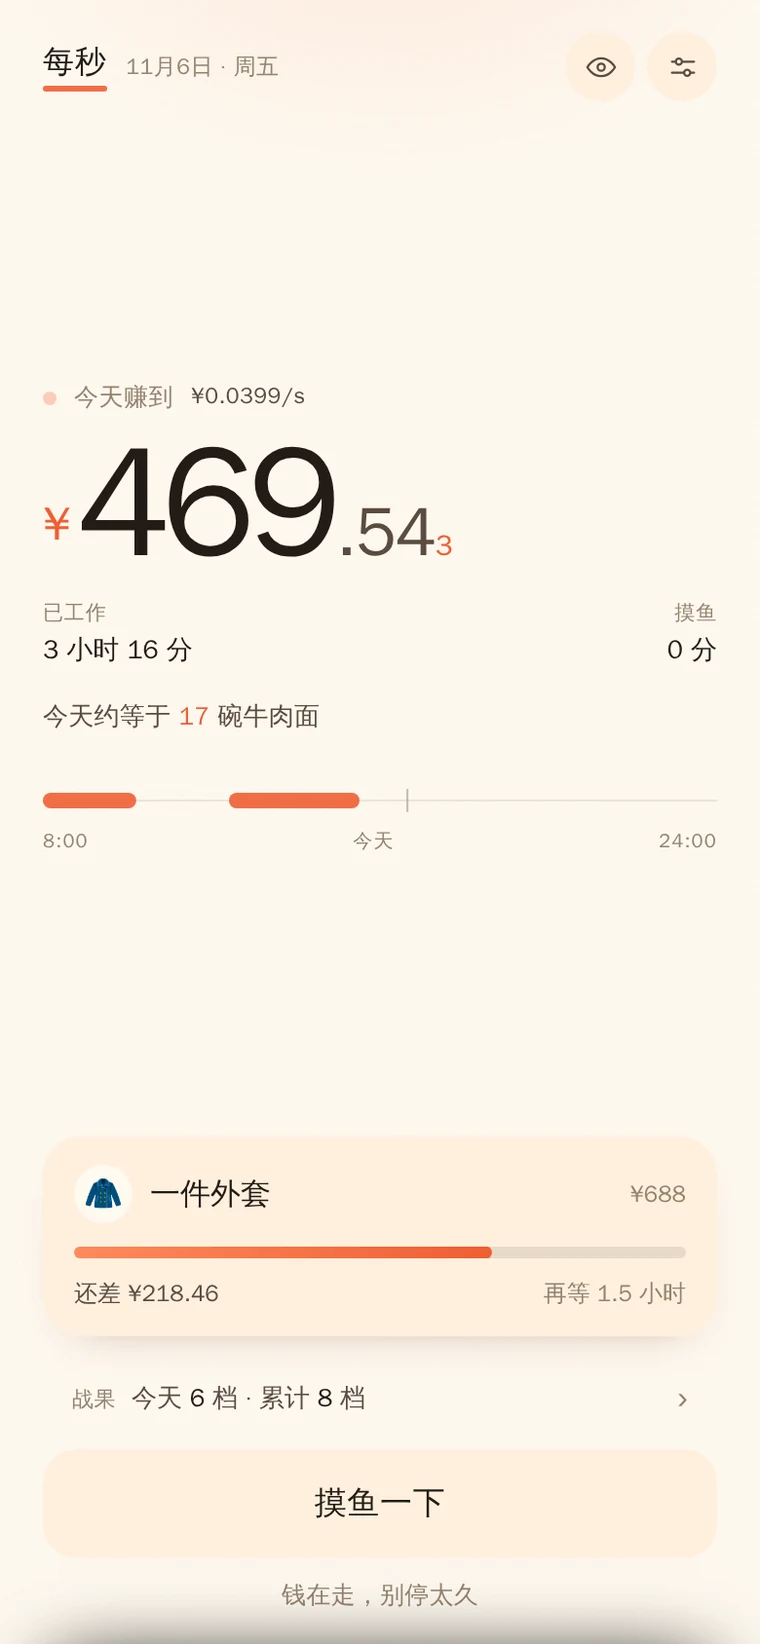
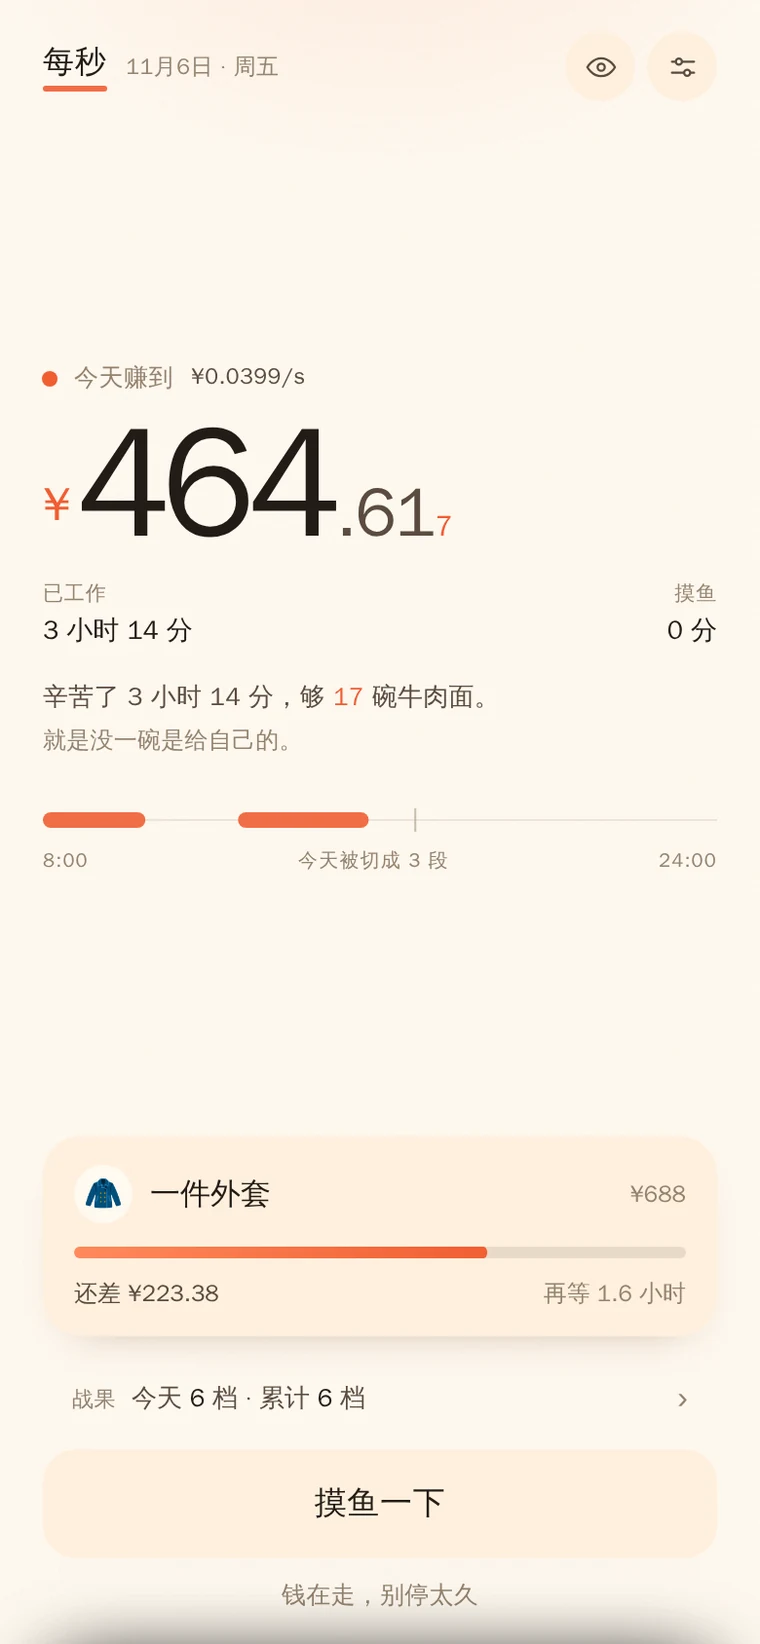
copy(v1.3.1): 换算句改成分层语气（主句 + 小字吐槽），时间带改「被切成 N 段」

diff --git a/index.html b/index.html
@@ -130,6 +130,7 @@
   .readout .right{text-align:right}
   .aside{margin-top:14px;font-size:13px;color:var(--ink-2);line-height:1.55;min-height:20px;letter-spacing:.01em}
   .aside b{font-weight:700;color:var(--accent)}
+  .aside .quip{display:block;margin-top:3px;font-size:12px;color:var(--ink-3)}
 
   .timeline{margin-top:26px;color:var(--ink-3)}
   .timeline svg{display:block;width:100%;height:auto}
@@ -455,10 +456,10 @@
   <div class="field col" style="border-top:1px solid var(--rule-soft);margin-top:18px">
     <label>分享</label>
     <div class="picks share" id="sharePicks">
-      <button class="pick" data-share="line" aria-pressed="false"><strong>一句话</strong><span>只有一句今天够买什么</span></button>
+      <button class="pick" data-share="line" aria-pressed="false"><strong>一句话</strong><span>只有一句话，别的不露</span></button>
       <button class="pick" data-share="report" aria-pressed="true"><strong>战报</strong><span>攒到几档、几件，不露钱</span></button>
-      <button class="pick" data-share="bill" aria-pressed="false"><strong>账单</strong><span>含金额，无工时</span></button>
-      <button class="pick" data-share="rhythm" aria-pressed="false"><strong>节奏卡</strong><span>只有今天的时间块，不含钱</span></button>
+      <button class="pick" data-share="bill" aria-pressed="false"><strong>账单</strong><span>带钱，不带时间</span></button>
+      <button class="pick" data-share="rhythm" aria-pressed="false"><strong>节奏卡</strong><span>只让人看你在忙</span></button>
     </div>
     <p class="note" id="shareNote">默认「战报」：别人能看懂你的进度，但算不出你的工资。</p>
   </div>
@@ -582,6 +583,30 @@
   function dayMs() { return S.hours * 3600 * 1000; }
   function yearMs() { return 12 * S.workdays * dayMs(); }
   function simTotalMs() { return S.sim.years * yearMs(); }
+  function durWords(ms) {
+    var m = Math.floor(ms / 60000);
+    if (m < 1) return '一小会儿';
+    if (m < 60) return m + ' 分钟';
+    var h = Math.floor(m / 60), mm = m % 60;
+    return h + ' 小时' + (mm ? ' ' + mm + ' 分' : '');
+  }
+
+  function asideSentence(e, now, isSim) {
+    var T = tpl(), unit = T.items[T.asideUnit].v;
+    var c = e / unit, n = c >= 10 ? Math.round(c) : Math.floor(c);
+    var dw = durWords(liveWorkMs(now));
+    function two(main, quip) { return main + (quip ? '<span class="quip">' + quip + '</span>' : ''); }
+
+    if (isSim) return two('这一轮跑了 ' + dw + '，够 <b>' + n + '</b> ' + T.aside + '。', '梦里什么都有。');
+    if (c < 0.25) return two('辛苦了 ' + dw + '，连一' + T.aside + '都还没够。', '再等等，快了。');
+    if (c < 1) return two('辛苦了 ' + dw + '，还差 <b>¥' + fen(unit - e) + '</b> 才够一' + T.aside + '。', '就差这么一点。');
+
+    var lead = n <= 1 ? '总算' : n <= 3 ? '勉强' : '';
+    var quip = n <= 1 ? '也算没白干。' : n <= 3 ? '加个蛋还得犹豫一下。' : n <= 9 ? '就是都不太舍得吃。' : '就是没一碗是给自己的。';
+    var num = n === 1 ? '一' : '<b>' + n + '</b> ';
+    return two('辛苦了 ' + dw + '，' + lead + '够' + (n === 1 ? '' : ' ') + num + T.aside + '。', quip);
+  }
+
   function liveWorkMs(now) {
     if (S.sim.on) {
       var b = S.sim.elapsedMs;
@@ -686,14 +711,11 @@
     el.btnMain.classList.toggle('ghost', running && !isSim);
 
     if (S.hideMoney) {
-      el.aside.textContent = e > 0 ? '金额藏起来了，进度还在走' : '';
+      el.aside.textContent = e > 0 ? '数字藏起来了，辛苦一点没少。' : '';
     } else if (e > 0) {
-      var unit = tpl().items[tpl().asideUnit].v;
-      var c = e / unit;
-      el.aside.innerHTML = c < 1
-        ? '还差 <b>¥' + fen(unit - e) + '</b> 就够一' + tpl().aside
-        : (isSim ? '这一轮约等于 ' : '今天约等于 ') + '<b>' + (c >= 10 ? Math.round(c) : c.toFixed(1)) + '</b> ' + tpl().aside;
-    } else el.aside.innerHTML = '';
+      el.aside.innerHTML = asideSentence(e, now, isSim);
+    } else if (isSim) el.aside.innerHTML = '';
+    else el.aside.textContent = running ? '刚坐下，钱才刚开始动。' : '今天还没开张，一分钱都还没挣。';
 
     if (!celebrating) { if (isSim) renderSimGoal(now); else renderItemGoal(now, e); }
     renderTimeline(now);
@@ -777,7 +799,8 @@
     });
     var nx = clamp((now - base) / span, 0, 1) * W;
     svg += '<line x1="' + nx.toFixed(1) + '" y1="0" x2="' + nx.toFixed(1) + '" y2="12" stroke="currentColor" stroke-opacity=".5" stroke-width="1"/>';
-    svg += '</svg><div class="cap"><span>8:00</span><span>今天</span><span>24:00</span></div>';
+    var capMid = all.length > 1 ? ('今天被切成 ' + all.length + ' 段') : '今天';
+    svg += '</svg><div class="cap"><span>8:00</span><span>' + capMid + '</span><span>24:00</span></div>';
     el.timeline.innerHTML = svg;
   }
 
@@ -1187,11 +1210,11 @@
       var blocks = rhythmBlocks();
       return shareShell(dateStr,
         '<p class="kicker">' + kicker + '</p>' +
-        '<h1>今天我走了 <b>' + blocks.count + '</b> 段</h1>' +
-        '<p class="sub">' + (blocks.longest ? '最长的一段 ' + blocks.longest + '，' : '') + '剩下的是留白。</p>' +
+        '<h1>今天被切成 <b>' + blocks.count + '</b> 段</h1>' +
+        '<p class="sub">' + (blocks.longest ? '最完整的一段 ' + blocks.longest + '，其余都是碎片。' : '还没凑出完整的一段。') + '</p>' +
         '<div style="margin-top:22px">' + blocks.svg + '</div>' +
         '<div class="stats"><div><span>时段</span><b>' + blocks.span + '</b></div>' +
-        '<div><span>段数</span><b>' + blocks.count + ' 段</b></div></div>' +
+        '<div><span>最长一段</span><b>' + (blocks.longest || '—') + '</b></div></div>' +
         '<p class="tiny" style="margin-top:16px">只显示时间结构，不含任何金额。</p>');
     }
 

diff --git a/CHANGELOG.md b/CHANGELOG.md
@@ -2,6 +2,15 @@
 
 格式参考 [Keep a Changelog](https://keepachangelog.com/zh-CN/1.1.0/)，版本号遵循 [SemVer](https://semver.org/lang/zh-CN/)。
 
+## [1.3.1] - 2026-11-06
+
+### 文案
+- 主界面的换算句换成分层语气：按今天攒到的档位换说法，主句说事实、小字吐槽
+  （连一碗都没够 / 还差 ¥x / 总算够一碗，也算没白干 / 勉强够三碗，加个蛋还得犹豫一下 /
+   够九碗，就是都不太舍得吃 / 够十七碗，就是没一碗是给自己的）
+- 时间带与节奏卡不再说「走了 N 段」，改成「今天被切成 N 段」「最完整的一段 X，其余都是碎片」
+- 未开张、遮金额、模拟模式也都换成同一语气
+
 ## [1.3.0] - 2026-11-06
 
 ### 变更
